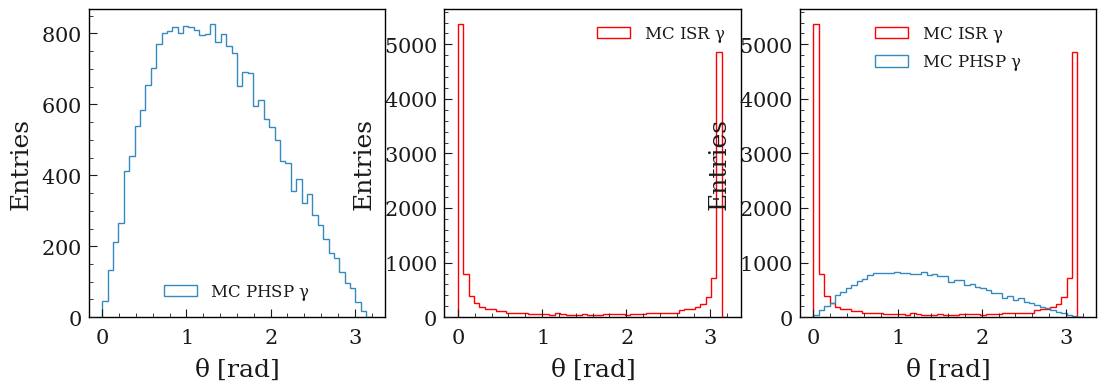
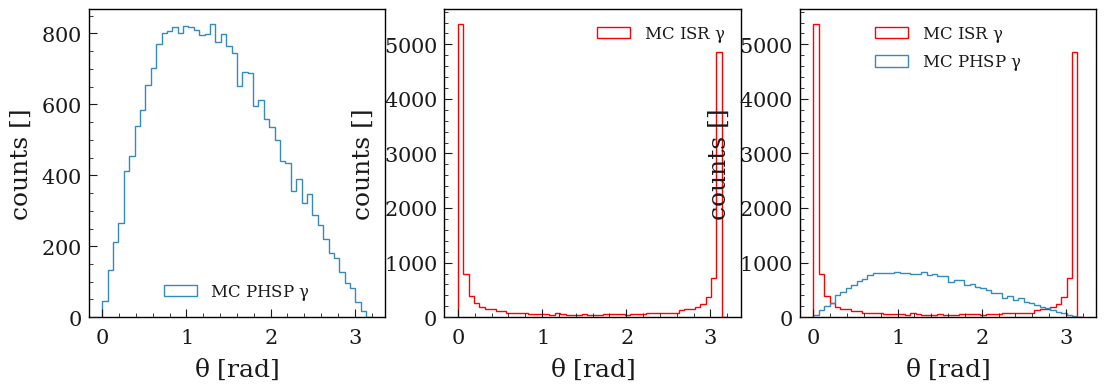
Correzione plotter

Changed region(s): [[0.6148, 0.2762, 0.6763, 0.5524], [0.3074, 0.2762, 0.3382, 0.5524], [0.0, 0.2762, 0.0307, 0.5524]]

diff --git a/plotter_boost.py b/plotter_boost.py
@@ -34,14 +34,14 @@ print(f"histo_2 is a {type(histo_2)} with {histo_2.sum()} entries")
 fig, axes = plt.subplots(nrows=1, ncols=3, figsize=(13, 4))
 
 #metto un istogramma nel primo panello [0] e uno nel secondo pannello [1]
-plot_hist(histo_2, ax=axes[0], label=r"MC PHSP $\bar{n}$", color="C0", histtype = "step")
-plot_hist(histo_1, ax=axes[1], label=r"MC ISR $\bar{n}$", color="red",histtype = "step")
+plot_hist(histo_2, ax=axes[0], label=r"MC PHSP $\gamma$", color="C0", histtype = "step")
+plot_hist(histo_1, ax=axes[1], label=r"MC ISR $\gamma$", color="red",histtype = "step")
 
 #metto due istogrammi sovrapposti nel terzo panello [2]
-plot_hist([histo_2, histo_1], ax=axes[2], label=[r"MC PHSP $\bar{n}$",r"MC ISR $\bar{n}$"], color=["C0","red"], histtype="step")  # <--)
+plot_hist([histo_2, histo_1], ax=axes[2], label=[r"MC PHSP $\gamma$",r"MC ISR $\gamma$"], color=["C0","red"], histtype="step")  # <--)
 
 for ax in axes:
-    ax.set_ylabel("Entries")
+    ax.set_ylabel("counts []")
     ax.set_xlabel(r"$\theta$ [rad]")
     ax.legend(loc="best")
 
